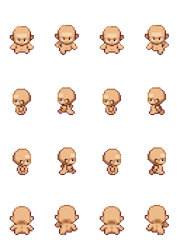
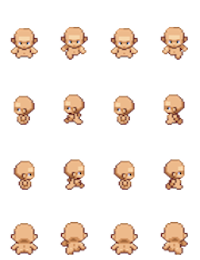
dough

diff --git a/js/game.js b/js/game.js
@@ -1,16 +1,23 @@
+let startScene = new Phaser.Scene('Title');
+
 const config = {
     type: Phaser.AUTO,
-    parent: 'game-container',
+    scale: {
+        parent: 'game-container',
+        autoCenter: Phaser.Scale.CENTER_BOTH,
+        zoom: 1.5
+    },
     width: 800,
     height: 600,
     physics: {
         default: 'arcade',
         arcade: {
             gravity: { y: 300 }, 
-            debug: true
-        }
+            debug: true,
+        },
     },
     scene: {
+        startScene,
         preload: preload,
         create: create,
         update: update
@@ -19,11 +26,11 @@ const config = {
 
 let player;
 let iceCreams;
-let bombs;
+let poops;
 let platform1;
 let platform2;
-let platform3;
-let movingPlatform;
+let movingPlatform1;
+let movingPlatform2;
 let cursors;
 let score = 0;
 let gameOver = false;
@@ -35,8 +42,8 @@ function preload () {
     this.load.image('desert', 'public/desert.png');
     this.load.image('ground', 'public/desert-platform.png');
     this.load.image('iceCream', 'public/iceCream.png');
-    this.load.image('bomb', 'public/bomb.png');
-    this.load.spritesheet('baby', 'public/naked-baby.png', { frameWidth: 45, frameHeight: 60 }); //32, 48
+    this.load.image('poop', 'public/poop.png');
+    this.load.spritesheet('baby', 'public/naked-baby.png', { frameWidth: 50, frameHeight: 67 }); // 51, 65
 };
 
 function create () {
@@ -44,31 +51,31 @@ function create () {
     this.add.image(400, 300, 'desert');
 
     // adds the floor for the game;
-    platform1 = platform2 = platform3 = this.physics.add.staticGroup();
+    platform1 = platform2 = movingPlatform2 = this.physics.add.staticGroup();
     //  Here we create the ground. Scale it to fit the width of the game
     platform1 = this.physics.add.image(530, 650, 'ground').setScale(2).refreshBody().setImmovable(true); // floor;
-    platform1.body.setSize(400, 90, true);
+    platform1.body.setSize(530, 88, true);
     platform1.body.allowGravity = false;
 
 
     // adds some ledges
-    platform2 = this.physics.add.image(30, 350, 'ground').setImmovable(true); // mid ledge;
+    platform2 = this.physics.add.image(100, 350, 'ground').setImmovable(true); // mid ledge;
     platform2.body.setSize(275, 60, true);
     platform2.body.allowGravity = false;
 
-    platform3 = this.physics.add.image(780, 220, 'ground').setImmovable(true); // top ledge;
-    platform3.body.setSize(545, 50, true);
-    platform3.body.allowGravity = false;
+    movingPlatform1 = this.physics.add.image(650, 470, 'ground').setImmovable(true); // bot ledge;
+    movingPlatform1.body.setSize(420, 50, true);
+    movingPlatform1.body.allowGravity = false;
+    movingPlatform1.setVelocityX(50);
 
-    movingPlatform = this.physics.add.image(750, 470, 'ground').setImmovable(true); // bot ledge;
-
-    movingPlatform.body.setSize(420, 50, true);
-    movingPlatform.body.allowGravity = false;
-    movingPlatform.setVelocityX(50);
+    movingPlatform2 = this.physics.add.image(780, 220, 'ground').setImmovable(true); // top ledge;
+    movingPlatform2.body.setSize(545, 50, true);
+    movingPlatform2.body.allowGravity = false;
+    movingPlatform2.setVelocityY(50);
 
     // The player and its settings
-    player = this.physics.add.sprite(150, 350, 'baby'); //100, 450
-    player.body.setSize(30, 46, true);
+    player = this.physics.add.sprite(150, 350, 'baby'); //100, 450 || 150, 350
+    player.body.setSize(35, 51, true);
 
     //  Player physics properties. Give the little guy a slight bounce.
     player.setBounce(0.5);
@@ -84,7 +91,7 @@ function create () {
 
     this.anims.create({
         key: 'turn',
-        frames: [ { key: 'baby', frame: 0 } ],
+        frames: [ { key: 'baby', frames: 0 } ],
         frameRate: 20
     });
 
@@ -99,6 +106,7 @@ function create () {
     cursors = this.input.keyboard.createCursorKeys();
 
     //  Some iceCreams to collect, 14 in total, evenly spaced 70 pixels apart along the x axis
+    
     iceCreams = this.physics.add.group({
         key: 'iceCream',
         repeat: 13,
@@ -108,11 +116,11 @@ function create () {
     iceCreams.children.iterate(function (child) {
 
         //  Give each iceCream a slightly different bounce
-        child.setBounceY(Phaser.Math.FloatBetween(0.8, 0.9)); // 0.4, 0.8
+        child.setBounceY(Phaser.Math.FloatBetween(0.4, 0.8)); // 0.4, 0.8
 
     });
 
-    bombs = this.physics.add.group();
+    poops = this.physics.add.group();
 
     //  The score
     scoreText = this.add.text(16, 16, 'score: 0', { fontSize: '32px', fill: '#000' });
@@ -120,23 +128,23 @@ function create () {
     //  Collide the player and the iceCreams with the platforms
     this.physics.add.collider(player, platform1);
     this.physics.add.collider(player, platform2);
-    this.physics.add.collider(player, platform3);
-    this.physics.add.collider(player, movingPlatform);
+    this.physics.add.collider(player, movingPlatform1);
+    this.physics.add.collider(player, movingPlatform2);
     
     this.physics.add.collider(iceCreams, platform1);
     this.physics.add.collider(iceCreams, platform2);
-    this.physics.add.collider(iceCreams, platform3);
-    this.physics.add.collider(iceCreams, movingPlatform);
+    this.physics.add.collider(iceCreams, movingPlatform1);
+    this.physics.add.collider(iceCreams, movingPlatform2);
 
-    this.physics.add.collider(bombs, platform1);
-    this.physics.add.collider(bombs, platform2);
-    this.physics.add.collider(bombs, platform3);
-    this.physics.add.collider(bombs, movingPlatform);
+    this.physics.add.collider(poops, platform1);
+    this.physics.add.collider(poops, platform2);
+    this.physics.add.collider(poops, movingPlatform1);
+    this.physics.add.collider(poops, movingPlatform2);
 
     //  Checks to see if the player overlaps with any of the iceCreams, if he does call the collecticeCream function
     this.physics.add.overlap(player, iceCreams, collecticeCream, null, this);
 
-    this.physics.add.collider(player, bombs, hitBomb, null, this);
+    this.physics.add.collider(player, poops, hitpoop, null, this);
 };
 
 function update () {
@@ -159,16 +167,19 @@ function update () {
     }
 
     if (cursors.up.isDown && player.body.touching.down) {
-        player.setVelocityY(-330); // -330
+        player.setVelocityY(-360); // -330
     }
 
-    if (movingPlatform.x >= 500) // 500
-    {
-        movingPlatform.setVelocityX(-90); // -50
+    if (movingPlatform1.x >= 500) {
+        movingPlatform1.setVelocityX(-90); 
+    } else if (movingPlatform1.x <= 300) {
+        movingPlatform1.setVelocityX(90); 
     }
-    else if (movingPlatform.x <= 300) // 300
-    {
-        movingPlatform.setVelocityX(90); // 50
+
+    if (movingPlatform2.y >= 300) {
+        movingPlatform2.setVelocityY(-50); 
+    } else if (movingPlatform2.y <= 200) {
+        movingPlatform2.setVelocityY(50); 
     }
 };
 
@@ -176,10 +187,10 @@ function collecticeCream (player, iceCream) {
     iceCream.disableBody(true, true);
 
     //  Add and update the score
-    score += 10;
+    score += 20;
     scoreText.setText('Score: ' + score);
 
-    if (iceCreams.countActive(true) === 0) {
+    if (iceCreams.countActive(true) === 1) {
         //  A new batch of iceCreams to collect
         iceCreams.children.iterate(function (child) {
 
@@ -187,18 +198,18 @@ function collecticeCream (player, iceCream) {
 
         });
 
-        const x = (player.x < 400) ? Phaser.Math.Between(400, 800) : Phaser.Math.Between(0, 400);
+            let x = (player.x < 400) ? Phaser.Math.Between(400, 800) : Phaser.Math.Between(0, 400);
 
-        const bomb = bombs.create(x, 16, 'bomb');
-        bomb.setBounce(1);
-        bomb.setCollideWorldBounds(true);
-        bomb.setVelocity(Phaser.Math.Between(-200, 200), 20);
-        bomb.allowGravity = false;
+        let poop = poops.create(x, 16, 'poop');
+        poop.setBounce(1);
+        poop.setCollideWorldBounds(true);
+        poop.setVelocity(Phaser.Math.Between(-200, 200), 20);
+        poop.allowGravity = false;
 
     }
 };
 
-function hitBomb (player, bomb) {
+function hitpoop (player, poop) {
     this.physics.pause();
 
     player.setTint(0xff0000);

diff --git a/js/scenes/StartScene.js b/js/scenes/StartScene.js
@@ -1,0 +1,11 @@
+class StartScene extends Phaser.Scene {
+    constructor () {
+        super({ key: "StartScene" });
+    }
+
+    preload () {
+        this.load.image('background', );
+    }
+};
+
+export default StartScene;

diff --git a/index.html b/index.html
@@ -11,5 +11,6 @@
 <body>
     <div id="game-container"></div>
     <script type="text/javascript" src="./js/game.js"></script>
+    <script type="text/javascript" src="./js/scenes/StartScene.js"></script>
 </body>
 </html>

diff --git a/style.css b/style.css
@@ -1,3 +1,6 @@
 body {
     margin: 0;
+    padding: 0;
+    overflow: hidden;
+    background-color: #808080;
 }
